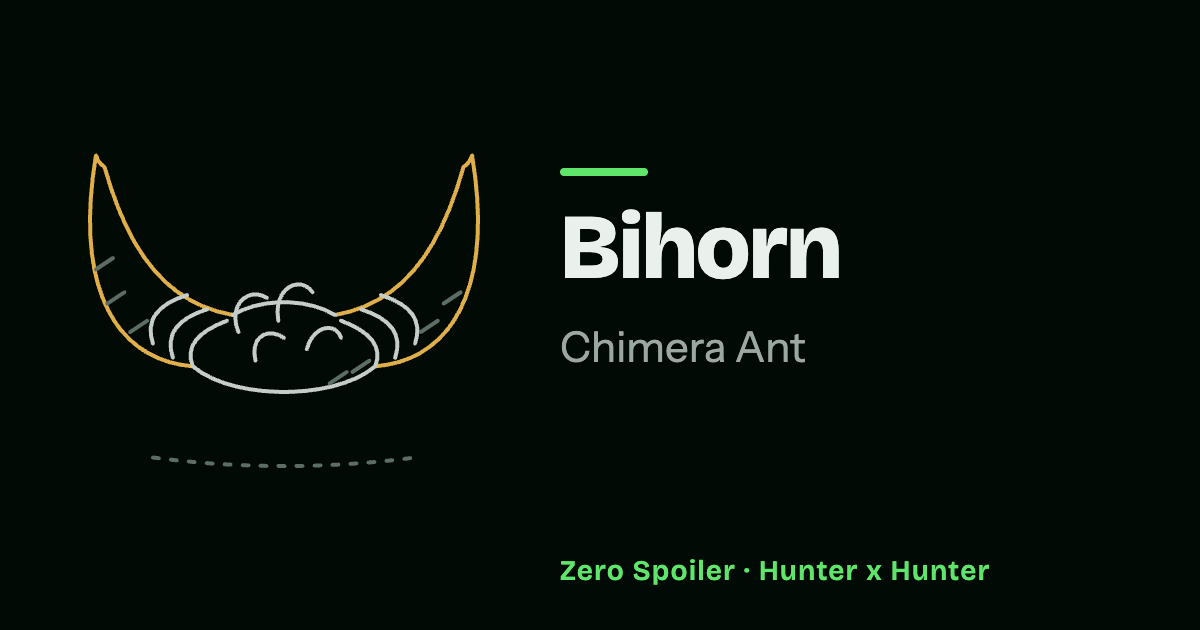
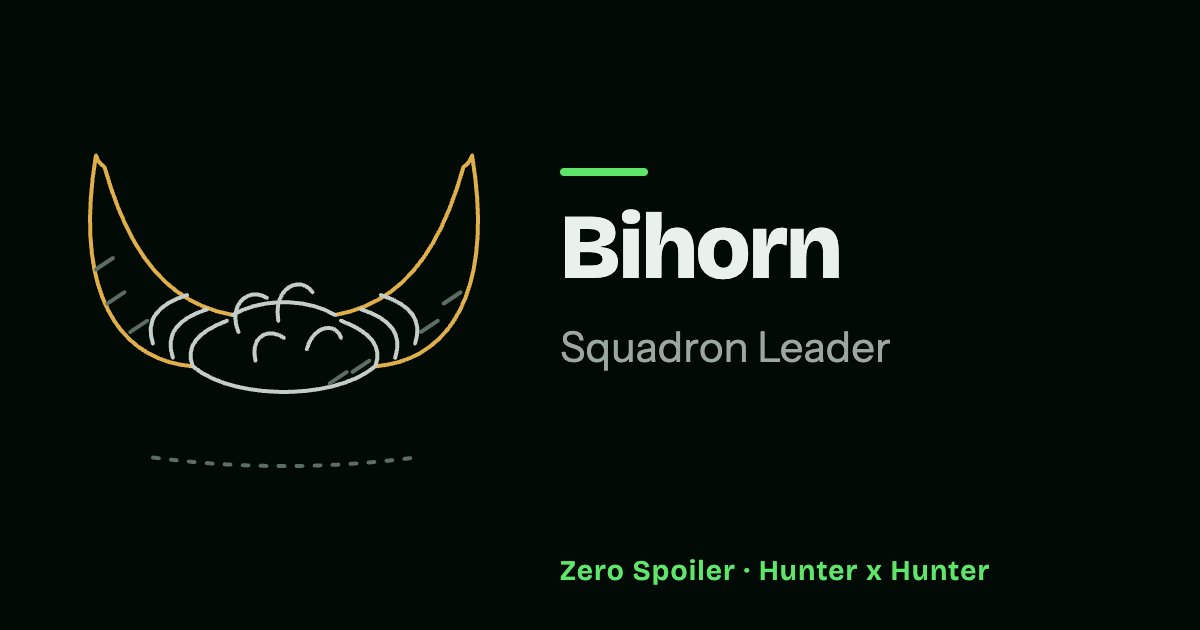
chore(hunter-x-hunter): record the Queen's provenance, names, tests and pictures (#1447)
Claude-Session: https://claude.ai/code/session_018XDoq99faXkb6bhit67uTt

Changed region(s): [[0.4625, 0.5127, 0.74, 0.573]]

diff --git a/src/server/archive/chimeraAnt.test.ts b/src/server/archive/chimeraAnt.test.ts
@@ -62,6 +62,8 @@ const PHASE_TWO: Row[] = [
   { id: 'baital', episode: 88, chapter: 205, place: false, source: 'chapter' },
   { id: 'colt', episode: 92, chapter: 214, place: false },
   { id: 'meruem', episode: 92, chapter: 215, place: false },
+  // Filed for the ranks page (#1447).
+  { id: 'chimera-ant-queen', episode: 77, chapter: 187, place: false },
   { id: 'dr-lee', episode: 92, chapter: 215, place: false, source: 'chapter' },
   { id: 'chimera-ant-nest', episode: 78, chapter: 188, place: true },
   { id: 'd2-manufacturing-plant', episode: 82, chapter: 192, place: true },
@@ -198,6 +200,7 @@ const DEATHS = [
   { id: 'pekuba', episode: 80, chapter: undefined },
   { id: 'yunju', episode: 82, chapter: undefined },
   { id: 'peggy', episode: undefined, chapter: 213 },
+  { id: 'chimera-ant-queen', episode: 92, chapter: 215 },
   { id: 'rammot', episode: 94, chapter: 219 },
   { id: 'cheetu', episode: 117, chapter: 278 },
   { id: 'neferpitou', episode: 131, chapter: 307 },
@@ -262,7 +265,8 @@ interface Step {
 
 /**
  * Every dated relationship, affiliation, status and role step of the
- * records Chimera Ant phase 2 filed (#1043, #1047), and of Neferpitou (phase 1),
+ * records Chimera Ant phase 2 filed (#1043, #1047), of Neferpitou (phase 1)
+ * and of the Queen and Zazan's turn to queen (#1447),
  * each pinned by hand to the episode and chapter that tell it, so moving one
  * later by a unit fails (#1230). A step that sits on its record's own gate
  * cannot show an earlier move, because a record never opens before its gate;
@@ -273,6 +277,23 @@ interface Step {
  * dated roles, affiliations and relationships below) are left out.
  */
 const PHASE_TWO_STEPS: Step[] = [
+  {
+    id: 'chimera-ant-queen',
+    field: 'relationships',
+    episode: 92,
+    chapter: 215,
+    value: {
+      it: 'colt: Comandante di divisione, meruem: Figlio',
+      en: 'colt: Squadron Leader, meruem: Son',
+    },
+  },
+  {
+    id: 'zazan',
+    field: 'role',
+    episode: 96,
+    chapter: 224,
+    value: { it: 'Regina autoproclamata', en: 'Self-proclaimed queen' },
+  },
   {
     id: 'palm-siberia',
     field: 'affiliation',
@@ -1439,6 +1460,7 @@ describe('Gyro before the anime ties him to NGL', () => {
 })
 
 describe.each([
+  { id: 'chimera-ant-queen', episode: 92, chapter: 215 },
   { id: 'neferpitou', episode: 131, chapter: 307 },
   { id: 'menthuthuyoupi', episode: 133, chapter: 310 },
   { id: 'meruem', episode: 135, chapter: 318 },

diff --git a/docs/architecture.md b/docs/architecture.md
@@ -202,38 +202,40 @@ the anime, which never says his manga name, opens it as Leol at episode 106
 Phase 4 (#1023) covers the palace assault through chapter 298, adds Taragetter
 in the manga, and opens Peijin in the anime at episode 116. Phase 5 (#1024)
 files the finale through chapter 318 and episode 136, with the full cast
-reconciliation in the phase 5 inventory. Chimera Ant chronicles (#910) cover all
-46 newly filed characters and 17 returning characters through episode 136 /
-chapter 318, with 255 bilingual timeline entries and source-specific versions.
-Election (#912) files named characters and visited places through chapter 339
-and episode 148, drawn in #913 with five stages (three deaths, two ability
-reveals). Election chronicles (#914) add 91 bilingual stories for all 28 new
-characters and 15 returning characters, with separate source restrictions for
-anime-only records and scenes, and a manga-only item trade. Kakin (#916) is
-manga-only and files in five phases; phase 1 (#1134) covers chapters 340–357 and
-phase 2 (#1135) chapters 358–370 and phase 3 (#1136) chapters 371–383, phase 4
-(#1137) chapters 384–400 and phase 5 (#1138) chapters 401–420, the last
-published. Phases 1 and 2 are drawn in #1154, with 22 manga-only stages through
-chapter 370 (eleven princes' Guardian Spirit Beasts, four deaths, four returning
-records' reveals, Hisoka's return, and Chrollo's disguise and its end); phases 3
-and 4 are drawn in #1156, with 14 more stages through chapter 400 (eight
-abilities first shown, five deaths or presumed deaths, Kacho's with her beast
-taking her form, and Salé-salé's lost beast); phase 5 is drawn in #1158, with 9
-more stages through chapter 420 (four reveals of identity or allegiance, two
-abilities first shown, and three deaths). Kakin chronicles for chapters 340–370
-(#1155) add 99 manga-only stories for the 45 characters filed there and 20
-returning characters; all sit at episode 148, so the home ledger and the
-uniqueness test key a story by its chapter as well. Chapters 371–400 (#1157) add
-120 more for the 40 characters filed there and 44 returning ones, and chapters
-401–420 (#1159) 84 for the 22 filed there and 37 returning ones. Candidates
-whose naming stays unverified are deferred to #1141–#1145. Gyro is unanchored at
-78 / 203. Silva, Killua's father, is named in episode 24 but in chapter 95 in
-the manga, so his record is unanchored at 24 / 95 (#834), as is Chrollo, shown
-from chapter 71 but named in the episodes only from 53 and filed at 54 / 71
-(#900); Kikyo is named only in credits and supplements, and Hishita only in
-chapter 329 (#912). Every Hunter Exam character has a chronicle (#762); the
-Heavens Arena characters get theirs in #898. Records are not added from unnamed
-appearances or supplemental names.
+reconciliation in the phase 5 inventory. The Chimera Ant Queen, left out of the
+phases as a title, is filed for the ranks page (#1447), where she holds the
+Chimera Ants' top seat. Chimera Ant chronicles (#910) cover all 46 newly filed
+characters and 17 returning characters through episode 136 / chapter 318, with
+255 bilingual timeline entries and source-specific versions. Election (#912)
+files named characters and visited places through chapter 339 and episode 148,
+drawn in #913 with five stages (three deaths, two ability reveals). Election
+chronicles (#914) add 91 bilingual stories for all 28 new characters and 15
+returning characters, with separate source restrictions for anime-only records
+and scenes, and a manga-only item trade. Kakin (#916) is manga-only and files in
+five phases; phase 1 (#1134) covers chapters 340–357 and phase 2 (#1135)
+chapters 358–370 and phase 3 (#1136) chapters 371–383, phase 4 (#1137) chapters
+384–400 and phase 5 (#1138) chapters 401–420, the last published. Phases 1 and 2
+are drawn in #1154, with 22 manga-only stages through chapter 370 (eleven
+princes' Guardian Spirit Beasts, four deaths, four returning records' reveals,
+Hisoka's return, and Chrollo's disguise and its end); phases 3 and 4 are drawn
+in #1156, with 14 more stages through chapter 400 (eight abilities first shown,
+five deaths or presumed deaths, Kacho's with her beast taking her form, and
+Salé-salé's lost beast); phase 5 is drawn in #1158, with 9 more stages through
+chapter 420 (four reveals of identity or allegiance, two abilities first shown,
+and three deaths). Kakin chronicles for chapters 340–370 (#1155) add 99
+manga-only stories for the 45 characters filed there and 20 returning
+characters; all sit at episode 148, so the home ledger and the uniqueness test
+key a story by its chapter as well. Chapters 371–400 (#1157) add 120 more for
+the 40 characters filed there and 44 returning ones, and chapters 401–420
+(#1159) 84 for the 22 filed there and 37 returning ones. Candidates whose naming
+stays unverified are deferred to #1141–#1145. Gyro is unanchored at 78 / 203.
+Silva, Killua's father, is named in episode 24 but in chapter 95 in the manga,
+so his record is unanchored at 24 / 95 (#834), as is Chrollo, shown from chapter
+71 but named in the episodes only from 53 and filed at 54 / 71 (#900); Kikyo is
+named only in credits and supplements, and Hishita only in chapter 329 (#912).
+Every Hunter Exam character has a chronicle (#762); the Heavens Arena characters
+get theirs in #898. Records are not added from unnamed appearances or
+supplemental names.
 
 A Hunter x Hunter character's Nen type is a dated field of its own (`nen`,
 `Series.features.nen`, #922), shown as a row of the character's facts in the
@@ -507,17 +509,17 @@ epithet, bounty and the like) are counted only as part of the timelines row.
 
 | Thing                     | Count                                                 |
 | ------------------------- | ----------------------------------------------------- |
-| Records                   | 368                                                   |
-| Characters                | 290                                                   |
+| Records                   | 369                                                   |
+| Characters                | 291                                                   |
 | Nen abilities             | 28                                                    |
-| Bodies of power           | 2, with 26 seats                                      |
+| Bodies of power           | 3, with 38 seats                                      |
 | Arcs, places              | 7 · 43                                                |
 | Saga modules              | 7                                                     |
-| Line drawings             | 368, one per record, plus 94 redrawings of 81 records |
+| Line drawings             | 369, one per record, plus 95 redrawings of 82 records |
 | Chronicle stories         | 1001, for 289 characters                              |
-| Dated timelines           | 1333                                                  |
-| Affiliation steps         | 464                                                   |
-| Status steps              | 388                                                   |
+| Dated timelines           | 1338                                                  |
+| Affiliation steps         | 465                                                   |
+| Status steps              | 390                                                   |
 | Origins that link a place | 10                                                    |
 
 ### `game-of-thrones`

diff --git a/docs/content-provenance/hunter-x-hunter-chimera-ant-phase-2.md b/docs/content-provenance/hunter-x-hunter-chimera-ant-phase-2.md
@@ -66,7 +66,7 @@
 | Pending, for phase 3            | The Netero order                                                                                                                                                                                         | Shown in episode 83, told in chapter 288.                                                                                              |
 | Pending, for phase 3            | Gyro                                                                                                                                                                                                     | His anime fate (episode 79).                                                                                                           |
 | Omitted                         | Reikei, Goran, Zem, Pokoro, Gaftz, Chiona                                                                                                                                                                | Mentioned only, never seen (owner ruling).                                                                                             |
-| Omitted                         | Chimera Ant Queen                                                                                                                                                                                        | A title.                                                                                                                               |
+| Filed later                     | Chimera Ant Queen                                                                                                                                                                                        | A title here; filed for the ranks page (#1447), gate 187 / 77.                                                                         |
 | Omitted                         | NGL Interpreter, Gyro's Father, Alligator, Small Bear, Turtle, Octopus, Mantis, Gun-toting Ant, Koala, Lead East Gorteau Dancer, Ming Jol-ik's Double, East Gorteau Nen-using Soldier, Gothic Newscaster | Descriptors, titles or species, with no personal name in the window.                                                                   |
 | Omitted                         | NGL Border Stop                                                                                                                                                                                          | Folded into NGL.                                                                                                                       |
 | Omitted                         | Miera Mountains, Balsa Islands, Mitene Union                                                                                                                                                             | Mentioned only.                                                                                                                        |
